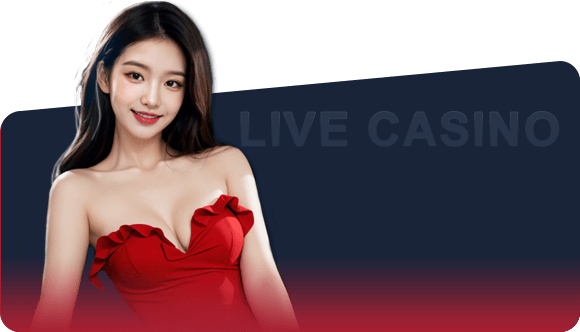
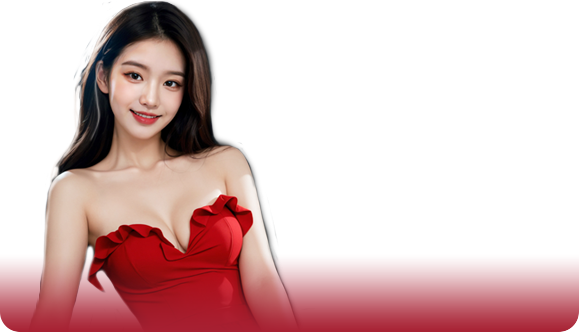
commit 9.3.8 首頁視訊平台背景改色

diff --git a/pages/first.vue b/pages/first.vue
@@ -127,9 +127,11 @@
                   <p class="text-red">包桌百家乐・经典百家乐・竟咪百家乐</p>
                 </div>
               </div>
+              <img src="/image/btn_live01_text.png" class="img-text">
               <img src="/image/btn_live01.png">
+              <svg xmlns="http://www.w3.org/2000/svg" xmlns:xlink="http://www.w3.org/1999/xlink" width="579px" height="271px"><path fill-rule="evenodd"  fill="currentColor" d="M20.000,49.1000 L559.000,0.000 C570.046,0.000 578.1000,8.954 578.1000,19.1000 L578.1000,251.000 C578.1000,262.046 570.046,270.1000 559.000,270.1000 L20.000,270.1000 C8.954,270.1000 0.000,262.046 0.000,251.000 L0.000,70.000 C0.000,58.954 8.954,49.1000 20.000,49.1000 Z"/></svg>
             </a>
-            <a href="#" class="live-item" style="--color-first-live-line: #02AC63">
+            <a href="#" class="live-item" style="background-image: url('/image/btn_live02.png'); --color-first-live-line: #02AC63">
               <button class="item-btn">Play</button>
               <div class="item-text">
                 <div class="title">AG视讯</div>
@@ -137,9 +139,8 @@
                   <p>实体赌场真人荷官现场发牌</p>
                 </div>
               </div>
-              <img src="/image/btn_live02.png">
             </a>
-            <a href="#" class="live-item" style="--color-first-live-line: #F5B443">
+            <a href="#" class="live-item" style="background-image: url('/image/btn_live03.png'); --color-first-live-line: #F5B443">
               <button class="item-btn">Play</button>
               <div class="item-text">
                 <div class="title">DB视讯</div>
@@ -147,9 +148,8 @@
                   <p>网上体验亲临赌场的刺激</p>
                 </div>
               </div>
-              <img src="/image/btn_live03.png">
             </a>
-            <a href="#" class="live-item" style="--color-first-live-line: #3E56E1">
+            <a href="#" class="live-item" style="background-image: url('/image/btn_live04.png'); --color-first-live-line: #3E56E1">
               <button class="item-btn">Play</button>
               <div class="item-text">
                 <div class="title">MG视讯</div>
@@ -157,9 +157,8 @@
                   <p>给你身临其境的真实感受</p>
                 </div>
               </div>
-              <img src="/image/btn_live04.png">
             </a>
-            <a href="#" class="live-item" style="--color-first-live-line: #45DDF6">
+            <a href="#" class="live-item" style="background-image: url('/image/btn_live05.png'); --color-first-live-line: #45DDF6">
               <button class="item-btn">Play</button>
               <div class="item-text">
                 <div class="title">BG视讯</div>
@@ -167,7 +166,6 @@
                   <p>最美荷官在线互动</p>
                 </div>
               </div>
-              <img src="/image/btn_live05.png">
             </a>
           </div>
         </div>

diff --git a/assets/sass/_layout.sass b/assets/sass/_layout.sass
@@ -566,6 +566,12 @@ body
     gap: 16px
     .live-item
       display: block
+      width: 180px
+      height: 270px
+      background-color: var(--color-secondary)
+      background-position: center bottom
+      background-repeat: no-repeat
+      border-radius: 20px
       position: relative
       &::after
         content: ''
@@ -629,6 +635,23 @@ body
         opacity: 0
         transition: .5s transform, .4s bottom
       &:nth-child(1)
+        width: 580px
+        height: 332px
+        background-color: transparent
+        .img-text
+          mix-blend-mode: soft-light
+          position: absolute
+          top: 110px
+          left: 250px
+        > img
+          position: relative
+          z-index: 2
+        > svg
+          color: var(--color-secondary)
+          position: absolute
+          bottom: 0
+          left: 0
+          z-index: 1
         &:hover
           &::after
             display: none
@@ -640,11 +663,13 @@ body
           background-color: #C3101C
           left: 72%
           bottom: 10%
+          z-index: 3
           opacity: 1
         .item-text
           width: 286px
           top: 115px
           left: 72%
+          z-index: 3
           .description
             white-space: inherit
             text-align: left

diff --git a/components/ChangeColor.vue b/components/ChangeColor.vue
@@ -130,7 +130,8 @@ const colorPickers = ref([]);
 onMounted(() => {
   colorPickers.value = [
     { label: '主要顏色', variable: '--color-primary', value: getComputedStyle(document.documentElement).getPropertyValue('--color-primary').trim() },
-    { label: '輔助顏色', variable: '--color-secondary', value: getComputedStyle(document.documentElement).getPropertyValue('--color-secondary').trim() },
+    { label: '主輔助顏色', variable: '--color-secondary', value: getComputedStyle(document.documentElement).getPropertyValue('--color-secondary').trim() },
+    { label: '次輔助顏色', variable: '--color-tertiary', value: getComputedStyle(document.documentElement).getPropertyValue('--color-tertiary').trim() },
     { label: '文字顏色', variable: '--color-primary-text', value: getComputedStyle(document.documentElement).getPropertyValue('--color-primary-text').trim() },
     { label: '輔助文字顏色', variable: '--color-secondary-text', value: getComputedStyle(document.documentElement).getPropertyValue('--color-secondary-text').trim() },
     { label: '背景色', variable: '--color-primary-bg', value: getComputedStyle(document.documentElement).getPropertyValue('--color-primary-bg').trim() },

diff --git a/assets/sass/app.sass b/assets/sass/app.sass
@@ -6,11 +6,12 @@
   --min-page-width: calc( var(--page-width) + 2rem )
   // 版面配色
   --color-primary: #0E77FF
-  --color-secondary: #0EACFF
+  --color-secondary: #192439
+  --color-tertiary: #0EACFF
   --color-login-button: var(--color-primary)
   --color-login-input: var(--color-tertiary-bg)
   --color-login-placeholder: #B0B4B3
-  --color-join-button: var(--color-secondary)
+  --color-join-button: var(--color-tertiary)
   --color-primary-text: #f5f5f5
   --color-secondary-text: #888888
   --color-primary-bg: #000000
